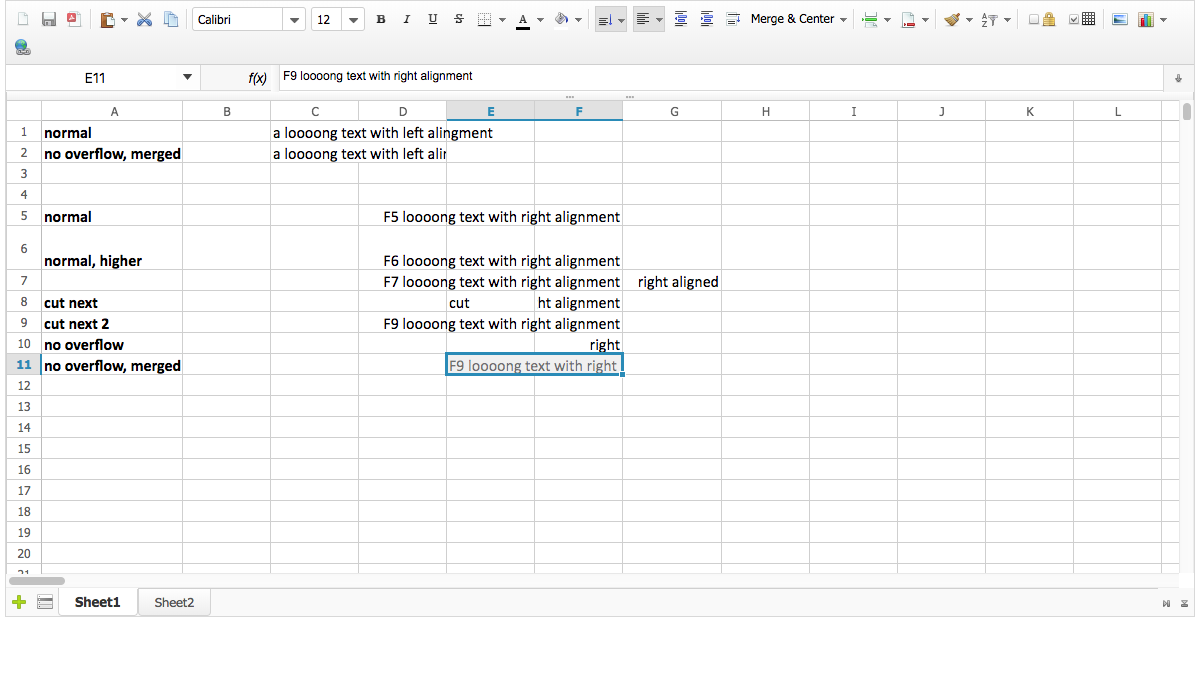
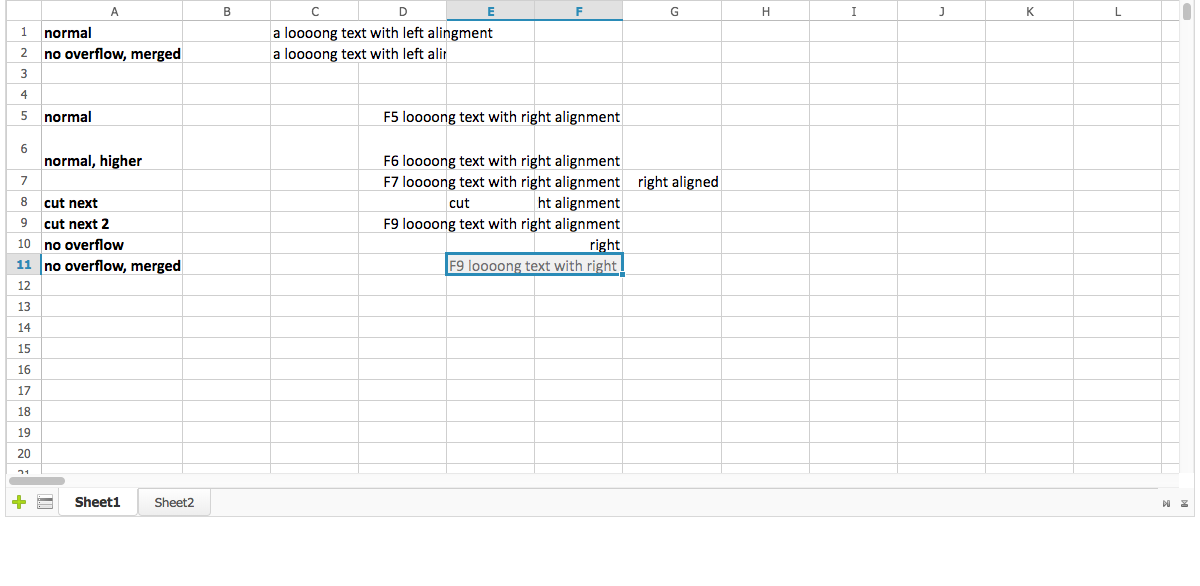
capture smaller screenshot (without toolbar) for right alignment tests

Changed region(s): [[0.0, 0.0, 1.0, 0.9215], [0.9558, 0.8601, 1.0, 0.8908]]

diff --git a/zss.test.selenium/src/test/java/org/zkoss/zss/test/selenium/testcases/function/Issue1330Test.java b/zss.test.selenium/src/test/java/org/zkoss/zss/test/selenium/testcases/function/Issue1330Test.java
@@ -4,8 +4,7 @@ import org.junit.*;
 import org.openqa.selenium.*;
 import org.zkoss.zss.test.selenium.*;
 import org.zkoss.zss.test.selenium.entity.*;
-
-import static org.junit.Assert.*;
+import org.zkoss.zss.test.selenium.util.*;
 
 
 public class Issue1330Test extends ZSSTestCase {
@@ -17,7 +16,7 @@ public class Issue1330Test extends ZSSTestCase {
     public void testZSS1338Import() throws Exception {
         getTo("/issue3/1338-overflow-right-align.zul");
         basename();
-        captureOrAssert("import");
+        captureOrAssert("import", MyPngCropper.TOOLBAR_CROPPER);
     }
 
     // always move selection box to A1 before capturing a screenshot to avoid image comparison being affected by selection box
@@ -32,13 +31,13 @@ public class Issue1330Test extends ZSSTestCase {
         click(ZSStyle.HORIZONTAL_ALIGN + " .zstbtn-cave");
         click(ZSStyle.MENUPOPUP_OPEN.toString() + " " + ZSStyle.ALIGN_LEFT.toString());
         focusSheet();
-        captureOrAssert("changeToLeftAlign");
+        captureOrAssert("changeToLeftAlign", MyPngCropper.TOOLBAR_CROPPER);
 
         dragAndDrop(ctrl.getCell("F5").toWebElement(), ctrl.getCell("F10").toWebElement());
         click(ZSStyle.HORIZONTAL_ALIGN + " .zstbtn-cave");
         click(ZSStyle.MENUPOPUP_OPEN.toString() + " " + ZSStyle.ALIGN_RIGHT.toString());
         focusSheet();
-        captureOrAssert("changeToRightAlign");
+        captureOrAssert("changeToRightAlign", MyPngCropper.TOOLBAR_CROPPER);
     }
 
     @Test
@@ -51,12 +50,12 @@ public class Issue1330Test extends ZSSTestCase {
         click(ZSStyle.HORIZONTAL_ALIGN + " .zstbtn-cave");
         click(ZSStyle.MENUPOPUP_OPEN.toString() + " " + ZSStyle.ALIGN_LEFT.toString());
         focusSheet();
-        captureOrAssert("changeToLeftAlign");
+        captureOrAssert("changeToLeftAlign", MyPngCropper.TOOLBAR_CROPPER);
 
         click(ZSStyle.HORIZONTAL_ALIGN + " .zstbtn-cave");
         click(ZSStyle.MENUPOPUP_OPEN.toString() + " " + ZSStyle.ALIGN_RIGHT.toString());
         focusSheet();
-        captureOrAssert("changeToRightAlign");
+        captureOrAssert("changeToRightAlign", MyPngCropper.TOOLBAR_CROPPER);
     }
 
     @Test
@@ -87,7 +86,7 @@ public class Issue1330Test extends ZSSTestCase {
         waitForTime(Setup.getTimeoutL0());
         sheetFunction().gotoTab(1);
         waitForTime(Setup.getTimeoutL0());
-        captureOrAssert("1");
+        captureOrAssert("1", MyPngCropper.TOOLBAR_CROPPER);
 
     }
     @Test
@@ -106,6 +105,7 @@ public class Issue1330Test extends ZSSTestCase {
         sheetFunction().gotoTab(1);
         captureOrAssert("1");
     }
+
 }
 
 
